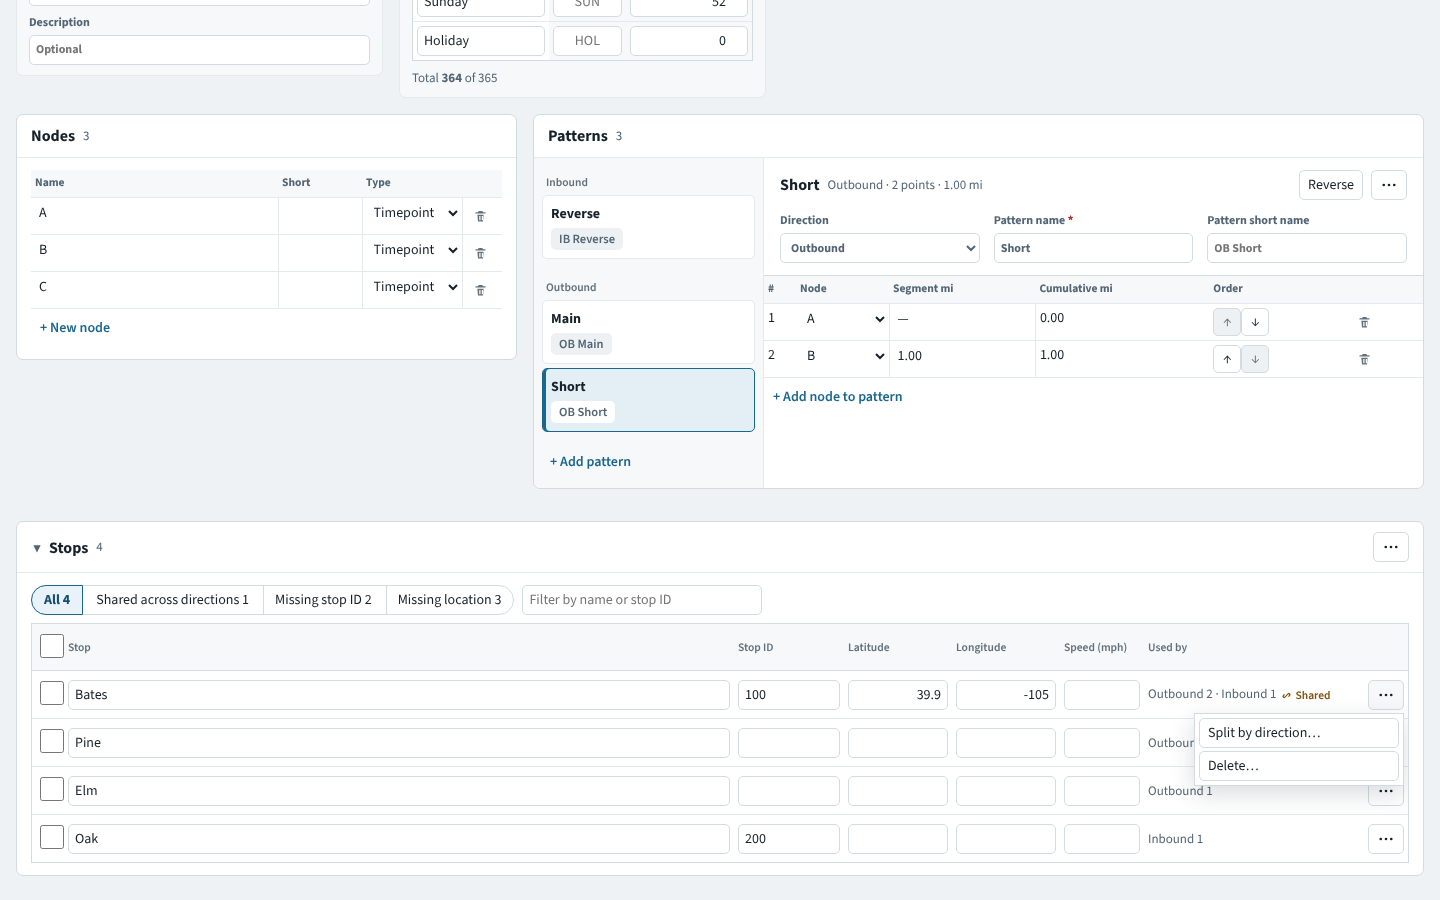
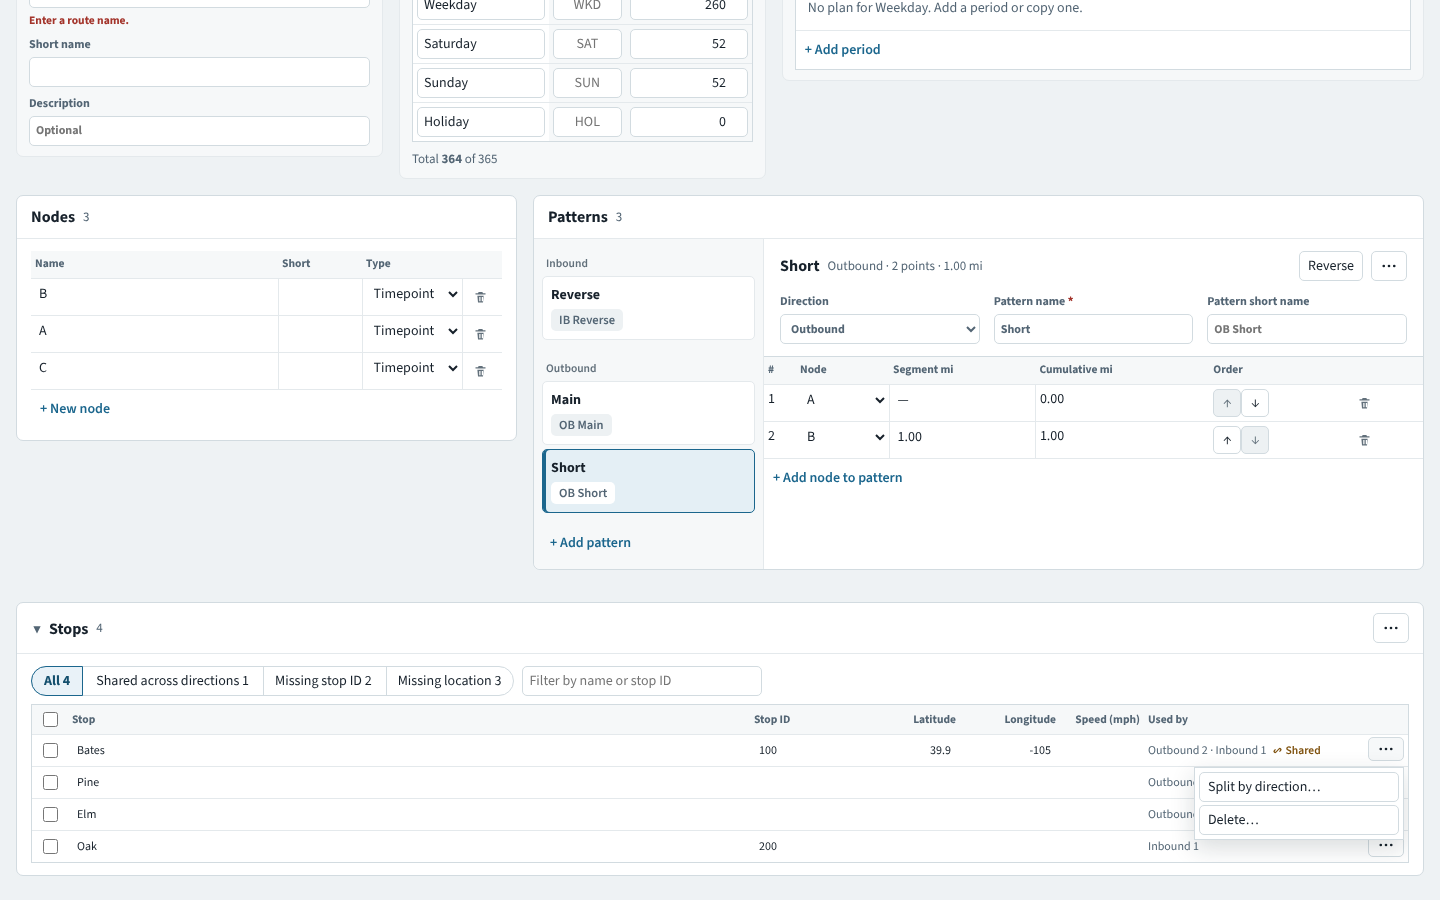
Stops section: 15 px checkboxes and the Trips table style
The selection checkboxes took the global input size (full width, control
height). They now use the Trips table's selection column rule. The table
drops its own heading and row rules for the app's table rules, with
compact rows and fields that read as cell text until hovered or focused,
as the Trips times do. The Used by column wraps instead of cutting off
the Shared mark at 1024 px, and the row menu button fits the row.

Verified: pnpm typecheck; pnpm build; route-stops-table, route-stops and
route-stop-locations specs (16 passed, 1 skipped screenshot test);
screenshots refreshed in output/route-stops-rs3. CSS only, so the unit
suite and the full browser suite were skipped.

Claude-Session: https://claude.ai/code/session_01JhBjbRWiyFNPDnznibsSDn

diff --git a/src/ui/styles/route.css b/src/ui/styles/route.css
@@ -134,24 +134,29 @@
 .route-stops__filters { display: flex; flex-wrap: wrap; align-items: center; gap: var(--space-2); margin-bottom: var(--space-2); }
 .route-stops__search { flex: 0 1 240px; min-width: 160px; }
 .route-stops__note, .route-stops__empty { color: var(--color-text-muted); font-size: var(--font-size-note); }
-.route-stops-table { width: 100%; table-layout: fixed; border-collapse: collapse; }
-.route-stops-table th, .route-stops-table td { padding: var(--space-1); text-align: left; vertical-align: middle; }
-.route-stops-table thead th { color: var(--color-text-subtle); font-size: var(--font-size-caption); font-weight: var(--font-weight-semibold); border-bottom: 1px solid var(--color-border); }
-.route-stops-table tbody tr + tr td { border-top: 1px solid var(--color-border-soft); }
-.route-stops-table input:not([type="checkbox"]) { width: 100%; min-width: 0; font-variant-numeric: tabular-nums; }
-.route-stops__check { width: 32px; }
-.route-stops-table th:nth-child(2) { width: auto; }
+/* The table uses the app's table rules (tables.css), as the Trips table does: sticky muted headings, soft row lines, compact rows. */
+.route-stops-table { table-layout: fixed; min-width: 760px; }
+.route-stops-table td { vertical-align: middle; padding-top: 2px; padding-bottom: 2px; }
+/* Fields read as cell text, like the Trips times; the border shows on hover and focus. */
+.route-stops-table input:not([type="checkbox"]) { width: 100%; min-width: 0; min-height: 24px; padding: 1px var(--space-1); border-color: transparent; background: transparent; font-size: var(--font-size-label); }
+.route-stops-table input:not([type="checkbox"]):hover:not(:disabled) { border-color: var(--color-border); background: var(--color-surface); }
+.route-stops-table input:not([type="checkbox"]):focus { border-color: var(--color-accent); background: var(--color-surface); }
+.route-stops-table input[aria-invalid="true"] { border-color: var(--color-danger); }
+/* The selection column matches the Trips table's (trips-workflow.css). */
+.route-stops-table .route-stops__check { width: 36px; padding: var(--space-1) 7px; text-align: center; }
+.route-stops-table .route-stops__check input { width: 15px; min-height: 15px; vertical-align: middle; }
 .route-stops-table th:nth-child(3) { width: 110px; }
-.route-stops-table th.route-stops__number { width: 108px; }
+.route-stops-table th.route-stops__number { width: 100px; }
 .route-stops-table th:nth-child(6) { width: 84px; }
 .route-stops-table th:nth-child(7) { width: 220px; }
 .route-stops-table th:last-child { width: 44px; }
-.route-stops__number input { text-align: right; }
-.route-stops__used { color: var(--color-text-muted); font-size: var(--font-size-note); }
+.route-stops__number, .route-stops__number input { text-align: right; }
+.route-stops__used { color: var(--color-text-muted); font-size: var(--font-size-label); }
+.route-stops__actions .menu-trigger { min-height: 24px; height: 24px; padding: 0 6px; }
 .route-stops__used > span:first-child { margin-right: var(--space-1); }
 .route-stops__shared { display: inline-flex; align-items: center; vertical-align: middle; color: var(--color-warn); }
 .route-stops__row--edited td { background: var(--color-warn-soft); }
-.route-stops__error td { padding-top: 0; border-top: 0 !important; }
+.route-stops__error td { padding-top: 0; }
 .route-stop-dialog__choices { display: flex; flex-wrap: wrap; gap: var(--space-3); border: 0; padding: 0; margin: var(--space-2) 0; }
 .route-stop-dialog__choices label, .route-stop-dialog__check { display: inline-flex; align-items: center; gap: var(--space-1); }
 .route-stop-dialog__fields { display: grid; grid-template-columns: repeat(auto-fill, minmax(150px, 1fr)); gap: var(--space-2); margin: var(--space-2) 0; }
